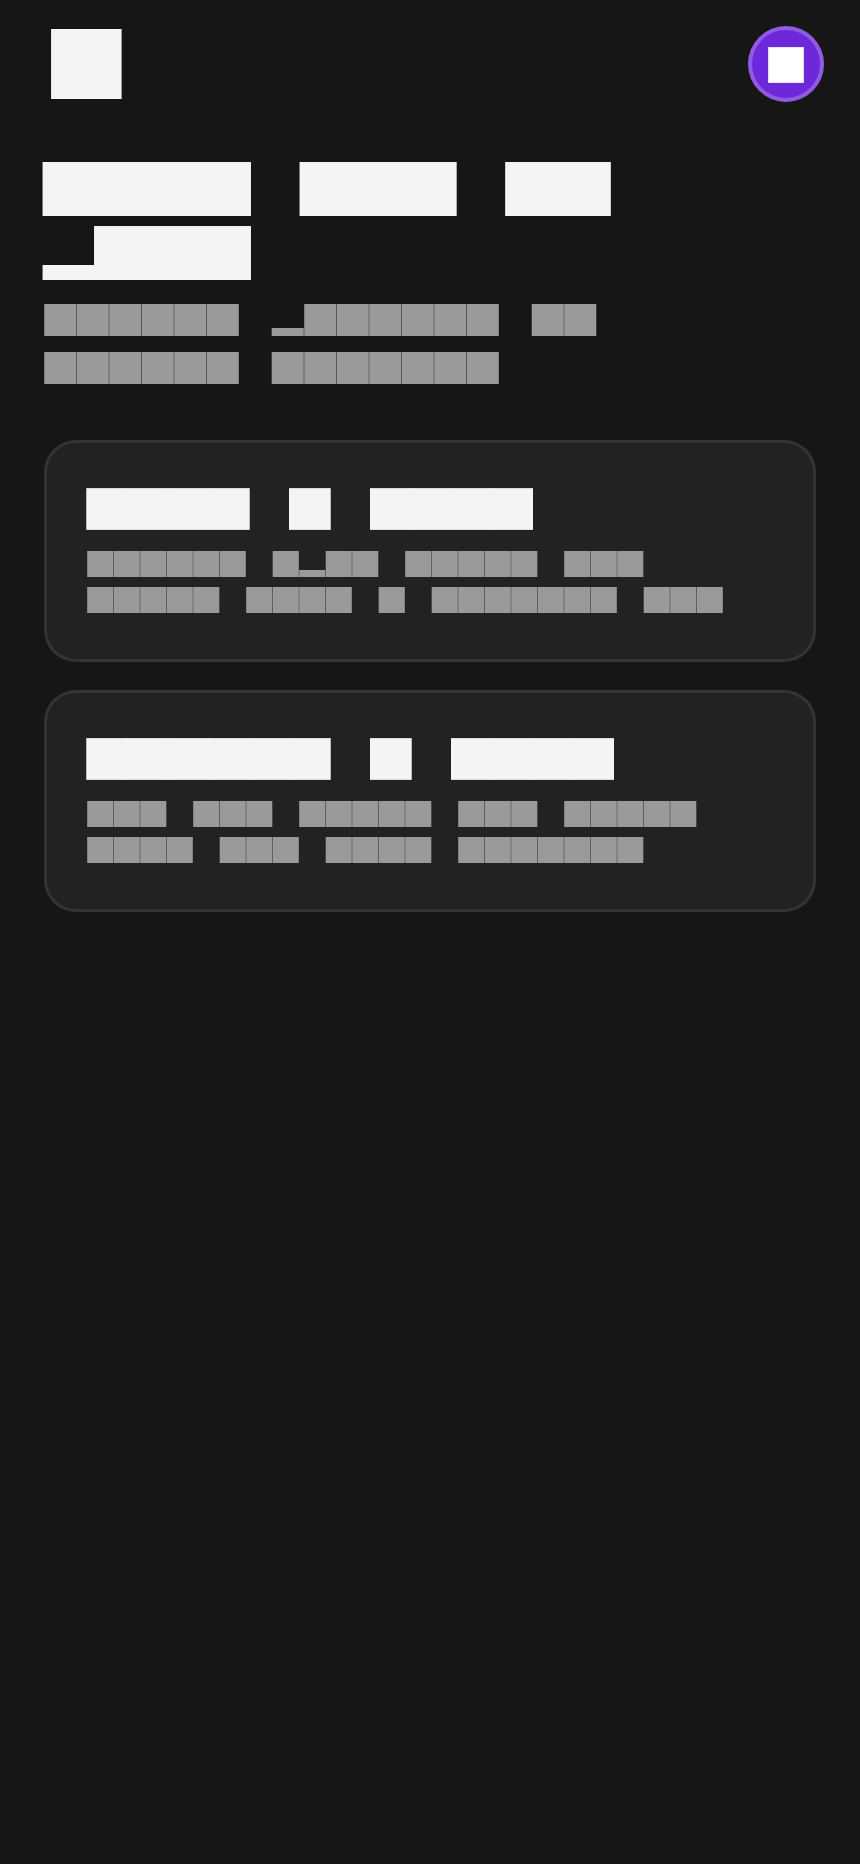
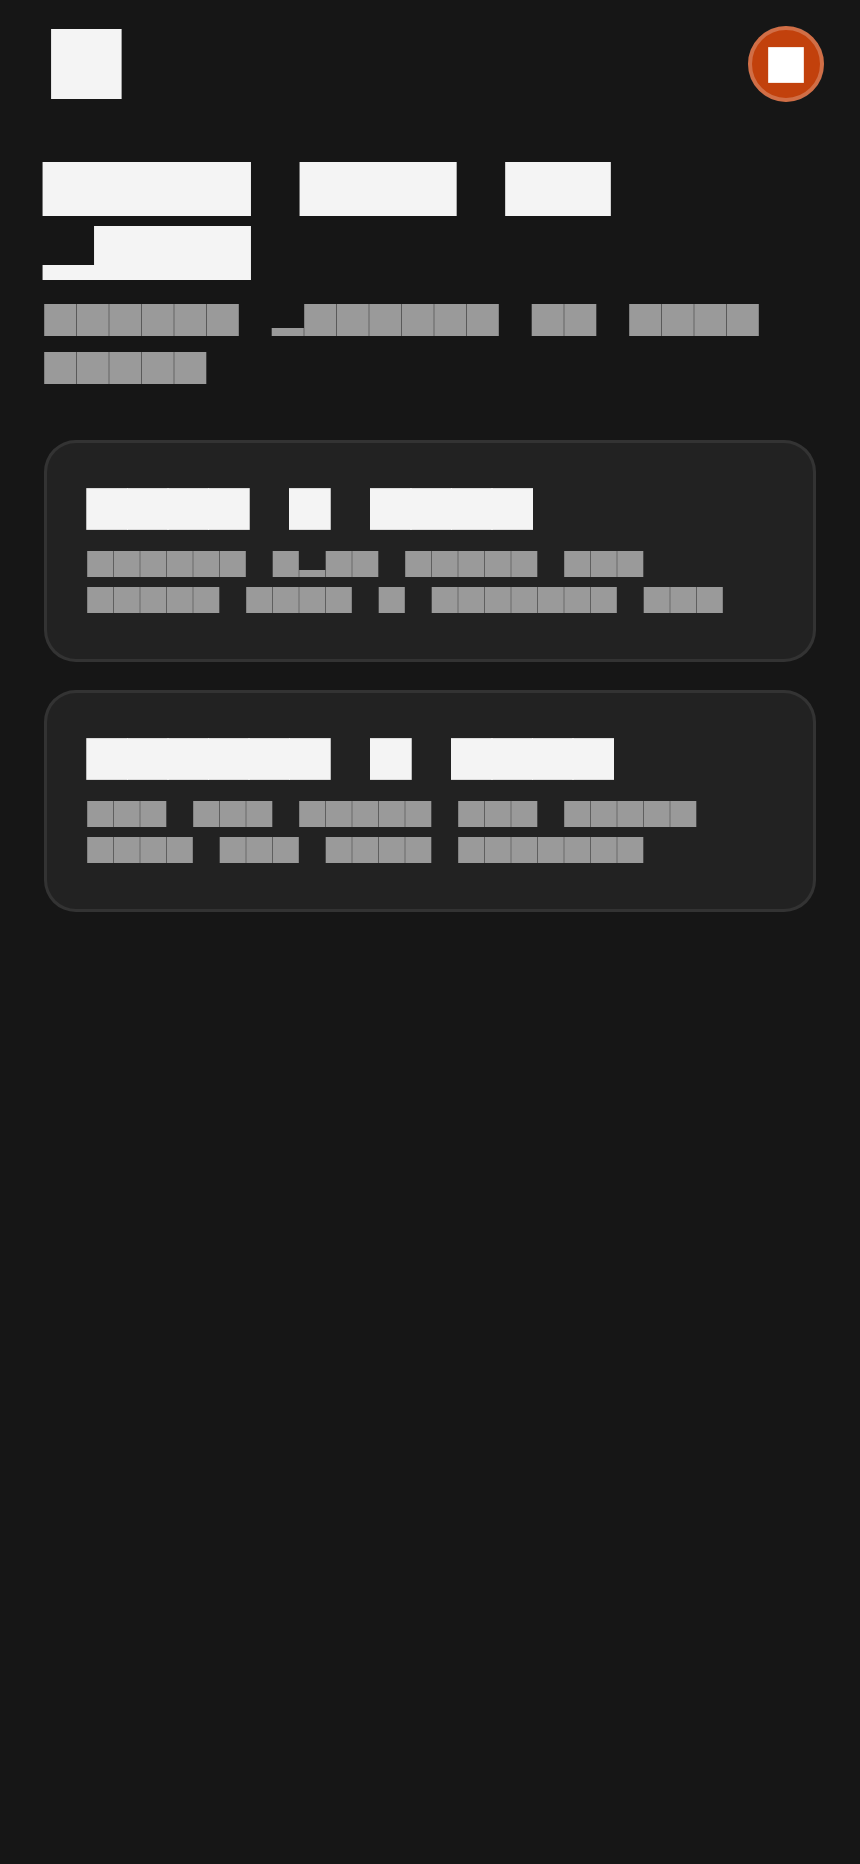
feat(client): dynamic imposter buttons, custom discussion rounds up to 10 and secure random roles

Changed region(s): [[0.2419, 0.1867, 0.6047, 0.2178], [0.8767, 0.0, 0.9674, 0.0622], [0.7256, 0.1556, 0.907, 0.1867]]

diff --git a/app/lib/features/create_game/presentation/create_game_screen.dart b/app/lib/features/create_game/presentation/create_game_screen.dart
@@ -32,8 +32,25 @@ class _CreateGameScreenState extends ConsumerState<CreateGameScreen> {
   int _maxPlayers = 6;
   int _imposters = 1;
   int _rounds = 2;
+  bool _isCustomRounds = false;
+  int _customRounds = 4;
   int _guessAttempts = 1;
   String _category = 'Random';
+
+  int get _currentPlayerCount =>
+      _mode == 'Online' ? _maxPlayers : _localNameControllers.length;
+
+  int get _maxAllowedImposters {
+    final count = _currentPlayerCount;
+    return ((count - 1) ~/ 2).clamp(1, 3);
+  }
+
+  void _clampImposters() {
+    final maxImp = _maxAllowedImposters;
+    if (_imposters > maxImp) {
+      _imposters = maxImp;
+    }
+  }
 
   // Local fields
   List<TextEditingController> _localNameControllers = [];
@@ -66,6 +83,7 @@ class _CreateGameScreenState extends ConsumerState<CreateGameScreen> {
         TextEditingController(text: 'Player ${_localNameControllers.length + 1}'),
       );
     }
+    _clampImposters();
   }
 
   @override
@@ -86,6 +104,7 @@ class _CreateGameScreenState extends ConsumerState<CreateGameScreen> {
       _localNameControllers.add(
         TextEditingController(text: 'Player ${_localNameControllers.length + 1}'),
       );
+      _clampImposters();
     });
   }
 
@@ -94,6 +113,7 @@ class _CreateGameScreenState extends ConsumerState<CreateGameScreen> {
     setState(() {
       final removed = _localNameControllers.removeAt(index);
       removed.dispose();
+      _clampImposters();
     });
   }
 
@@ -325,7 +345,10 @@ class _CreateGameScreenState extends ConsumerState<CreateGameScreen> {
               SegmentedChoice<String>(
                 options: const ['Online', 'Local'],
                 selected: _mode,
-                onChanged: (val) => setState(() => _mode = val),
+                onChanged: (val) => setState(() {
+                  _mode = val;
+                  _clampImposters();
+                }),
               ),
               const SizedBox(height: 6),
               Text(
@@ -350,10 +373,22 @@ class _CreateGameScreenState extends ConsumerState<CreateGameScreen> {
               ),
               const SizedBox(height: 6),
               SegmentedChoice<int>(
-                options: const [1, 2, 3],
-                selected: _imposters,
+                options: List.generate(_maxAllowedImposters, (i) => i + 1),
+                selected: _imposters.clamp(1, _maxAllowedImposters),
                 onChanged: (val) => setState(() => _imposters = val),
               ),
+              if (_maxAllowedImposters < 3) ...[
+                const SizedBox(height: 4),
+                Text(
+                  _maxAllowedImposters == 1
+                      ? 'Only 1 imposter allowed for $_currentPlayerCount players (requires 5+ players for 2)'
+                      : 'Up to 2 imposters allowed for $_currentPlayerCount players (requires 7+ players for 3)',
+                  style: SusTypography.caption.copyWith(
+                    color: colors.mute,
+                    fontSize: 11,
+                  ),
+                ),
+              ],
               const SizedBox(height: 16),
 
               // Discussion rounds
@@ -362,11 +397,135 @@ class _CreateGameScreenState extends ConsumerState<CreateGameScreen> {
                 style: SusTypography.caption.copyWith(color: colors.mute),
               ),
               const SizedBox(height: 6),
-              SegmentedChoice<int>(
-                options: const [1, 2, 3],
-                selected: _rounds,
-                onChanged: (val) => setState(() => _rounds = val),
+              SegmentedChoice<String>(
+                options: const ['1', '2', '3', 'Custom'],
+                selected: _isCustomRounds ? 'Custom' : '$_rounds',
+                onChanged: (val) {
+                  setState(() {
+                    if (val == 'Custom') {
+                      _isCustomRounds = true;
+                      _rounds = _customRounds;
+                    } else {
+                      _isCustomRounds = false;
+                      _rounds = int.parse(val);
+                    }
+                  });
+                },
+                labelBuilder: (opt) {
+                  if (opt == 'Custom' && _isCustomRounds) {
+                    return 'Custom ($_rounds)';
+                  }
+                  return opt;
+                },
               ),
+              if (_isCustomRounds) ...[
+                const SizedBox(height: 8),
+                Container(
+                  padding:
+                      const EdgeInsets.symmetric(horizontal: 14, vertical: 12),
+                  decoration: BoxDecoration(
+                    color: colors.panel,
+                    borderRadius: BorderRadius.circular(12),
+                    border: Border.all(color: colors.crimson, width: 1.5),
+                  ),
+                  child: Column(
+                    crossAxisAlignment: CrossAxisAlignment.start,
+                    children: [
+                      Row(
+                        mainAxisAlignment: MainAxisAlignment.spaceBetween,
+                        children: [
+                          Text(
+                            'Custom discussion rounds',
+                            style: SusTypography.body.copyWith(
+                              color: colors.bone,
+                              fontWeight: FontWeight.w600,
+                            ),
+                          ),
+                          Container(
+                            padding: const EdgeInsets.symmetric(
+                              horizontal: 10,
+                              vertical: 3,
+                            ),
+                            decoration: BoxDecoration(
+                              color: colors.crimson.withValues(alpha: 0.2),
+                              borderRadius: BorderRadius.circular(6),
+                              border: Border.all(color: colors.crimson),
+                            ),
+                            child: Text(
+                              '$_rounds ${_rounds == 1 ? "round" : "rounds"}',
+                              style: SusTypography.caption.copyWith(
+                                color: colors.crimsonBright,
+                                fontWeight: FontWeight.w700,
+                              ),
+                            ),
+                          ),
+                        ],
+                      ),
+                      const SizedBox(height: 8),
+                      Row(
+                        children: [
+                          IconButton(
+                            icon:
+                                const Icon(Icons.remove_circle_outline_rounded),
+                            color: _rounds > 1 ? colors.bone : colors.mute,
+                            tooltip: 'Decrease rounds',
+                            onPressed: _rounds > 1
+                                ? () => setState(() {
+                                      _rounds--;
+                                      _customRounds = _rounds;
+                                    })
+                                : null,
+                          ),
+                          Expanded(
+                            child: SliderTheme(
+                              data: SliderTheme.of(context).copyWith(
+                                activeTrackColor: colors.crimson,
+                                inactiveTrackColor: colors.line,
+                                thumbColor: colors.crimsonBright,
+                                overlayColor: colors.crimson.withAlpha(40),
+                                trackHeight: 4,
+                              ),
+                              child: Slider(
+                                value: _rounds.toDouble().clamp(1.0, 10.0),
+                                min: 1,
+                                max: 10,
+                                divisions: 9,
+                                label: '$_rounds',
+                                onChanged: (val) {
+                                  setState(() {
+                                    _rounds = val.round();
+                                    _customRounds = _rounds;
+                                  });
+                                },
+                              ),
+                            ),
+                          ),
+                          IconButton(
+                            icon: const Icon(Icons.add_circle_outline_rounded),
+                            color: _rounds < 10 ? colors.bone : colors.mute,
+                            tooltip: 'Increase rounds',
+                            onPressed: _rounds < 10
+                                ? () => setState(() {
+                                      _rounds++;
+                                      _customRounds = _rounds;
+                                    })
+                                : null,
+                          ),
+                        ],
+                      ),
+                      Center(
+                        child: Text(
+                          'Rounds can be set between 1 and 10 (maximum 10).',
+                          style: SusTypography.caption.copyWith(
+                            color: colors.mute,
+                            fontSize: 11,
+                          ),
+                        ),
+                      ),
+                    ],
+                  ),
+                ),
+              ],
               const SizedBox(height: 16),
 
               // Guess attempts
@@ -541,7 +700,12 @@ class _CreateGameScreenState extends ConsumerState<CreateGameScreen> {
           min: 3,
           max: 12,
           divisions: 9,
-          onChanged: (val) => setState(() => _maxPlayers = val.toInt()),
+          onChanged: (val) {
+            setState(() {
+              _maxPlayers = val.toInt();
+              _clampImposters();
+            });
+          },
         ),
       ),
     ];

diff --git a/app/test/engine_test.dart b/app/test/engine_test.dart
@@ -301,5 +301,62 @@ void main() {
         expect(res, equals(t['expectedForbidden']));
       }
     });
+
+    test('selects imposters with unbiased uniform distribution across repeated starts', () {
+      final players = [
+        const GamePlayer(id: 'p1', name: 'P1'),
+        const GamePlayer(id: 'p2', name: 'P2'),
+        const GamePlayer(id: 'p3', name: 'P3'),
+      ];
+      const settings = GameSettings(
+        maxPlayers: 3,
+        imposters: 1,
+        rounds: 2,
+      );
+
+      final imposterCounts = <String, int>{'p1': 0, 'p2': 0, 'p3': 0};
+      const iterations = 600;
+
+      for (var i = 0; i < iterations; i++) {
+        final state = GameEngine.startGame(
+          players: players,
+          settings: settings,
+          secretWord: 'Apple',
+          category: 'Objects & Food',
+        );
+        final imp = state.players.firstWhere((p) => p.isImposter);
+        imposterCounts[imp.id] = (imposterCounts[imp.id] ?? 0) + 1;
+      }
+
+      // Each player should be picked around ~200 times (between 130 and 270)
+      expect(imposterCounts['p1'], greaterThan(130));
+      expect(imposterCounts['p1'], lessThan(270));
+      expect(imposterCounts['p2'], greaterThan(130));
+      expect(imposterCounts['p2'], lessThan(270));
+      expect(imposterCounts['p3'], greaterThan(130));
+      expect(imposterCounts['p3'], lessThan(270));
+    });
+
+    test('supports custom discussion rounds up to 10', () {
+      final players = [
+        const GamePlayer(id: 'p1', name: 'P1'),
+        const GamePlayer(id: 'p2', name: 'P2'),
+        const GamePlayer(id: 'p3', name: 'P3'),
+      ];
+      const settings = GameSettings(
+        maxPlayers: 3,
+        imposters: 1,
+        rounds: 10,
+      );
+
+      final state = GameEngine.startGame(
+        players: players,
+        settings: settings,
+        secretWord: 'Apple',
+        category: 'Objects & Food',
+      );
+
+      expect(state.settings.rounds, equals(10));
+    });
   });
 }

diff --git a/app/lib/features/local_game/presentation/local_game_controller.dart b/app/lib/features/local_game/presentation/local_game_controller.dart
@@ -77,14 +77,15 @@ class LocalGameNotifier extends StateNotifier<LocalGameProgress?> {
           : 'Custom';
       chosenWord = customWord.trim();
     } else {
+      final secureRng = math.Random.secure();
       final categories = _cachedWordBank!.keys.toList();
       chosenCategory = category == 'Random' || !_cachedWordBank!.containsKey(category)
-          ? categories[math.Random().nextInt(categories.length)]
+          ? categories[secureRng.nextInt(categories.length)]
           : category;
 
       final wordsMap = _cachedWordBank![chosenCategory] as Map<String, dynamic>;
       final words = wordsMap.keys.toList();
-      chosenWord = words[math.Random().nextInt(words.length)];
+      chosenWord = words[secureRng.nextInt(words.length)];
     }
 
     final players = playerNames.asMap().entries.map((e) {

diff --git a/app/lib/engine/game_engine.dart b/app/lib/engine/game_engine.dart
@@ -37,7 +37,8 @@ class GameEngine {
     if (customImposterIds != null) {
       imposterIds = List.from(customImposterIds);
     } else {
-      final shuffled = List<GamePlayer>.from(players)..shuffle(math.Random());
+      final secureRng = math.Random.secure();
+      final shuffled = List<GamePlayer>.from(players)..shuffle(secureRng);
       imposterIds = shuffled.take(imposterCount).map((p) => p.id).toList();
     }
 
@@ -56,7 +57,8 @@ class GameEngine {
     if (customOrder != null) {
       order = List.from(customOrder);
     } else {
-      order = assignedPlayers.map((p) => p.id).toList()..shuffle(math.Random());
+      final secureRng = math.Random.secure();
+      order = assignedPlayers.map((p) => p.id).toList()..shuffle(secureRng);
     }
 
     return GameState(

diff --git a/docs/DECISIONS.md b/docs/DECISIONS.md
@@ -64,3 +64,16 @@
 - **Decision**: Provide a `render.yaml` blueprint defining a free Web Service with native WebSocket support and automatic `/health` checks. Document Android APK generation with `--split-per-abi` and custom `--dart-define=SERVER_URL` in dedicated non-tech-friendly guides.
 - **Consequences**: 1-click cloud server deployment on Render and seamless standalone APK sideloading without Google Play Store dependency.
 
+## ADR 011: Cryptographically Secure Unbiased Role Permutations
+- **Status**: Accepted
+- **Context**: Across consecutive rounds, sorting with non-transitive `Math.random() - 0.5` in V8 produced an acute 43% selection bias towards the first player (host/player 1) remaining at index 0.
+- **Decision**: Implement true Knuth Fisher-Yates shuffle using `crypto.randomInt` in TypeScript and `Random.secure()` in Dart.
+- **Consequences**: Provably uniform $1/N$ probability for each player in every match, eliminating consecutive-round player 1 clustering.
+
+## ADR 012: Dynamic Imposter Button Scaling & Custom Discussion Rounds (up to 10)
+- **Status**: Accepted
+- **Context**: Imposter settings needed to visually scale with group size to avoid host confusion, and hosts required granular control over discussion lengths beyond 3 rounds.
+- **Decision**: Dynamically render imposter choice buttons (`1`, `1..2`, or `1..3`) according to current player count: `((n-1)/2).clamp(1, 3)`. Add a dedicated 'Custom' option to the discussion rounds selector expanding to a slider and steppers allowing 1 to 10 rounds, validated end-to-end through Zod and engine state machines.
+- **Consequences**: Seamless host configuration with foolproof limits preventing game-breaking minority/majority violations.
+
+
